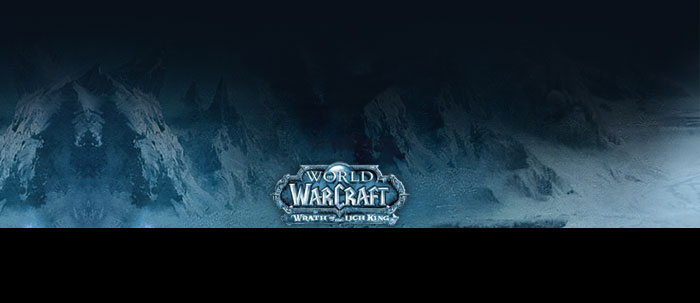
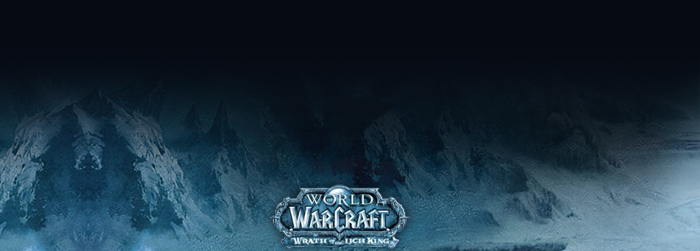
Brand New Background, News Design, Info Design, Top/LowerBG Design

diff --git a/themes/wotlk/css/misc.css b/themes/wotlk/css/misc.css
@@ -19,10 +19,96 @@
 	width: 150px;
 }
 
+
 #user_menu {
 	
 }
 
 #content {
 	min-height: 500px;
+}
+
+#news{
+	width:451px;
+	float:left;
+	margin:0px;
+	margin-top:20px;
+	padding:0px 0px;
+}
+#news_top{
+	height:26px;
+	margin:0px;
+	padding:0px;
+	background:url(../images/index_01.png) no-repeat;
+}
+#news_bottom{
+	height:26px;
+	margin:0px;
+	padding:0px;
+	background:url(../images/index_05.png) no-repeat bottom center;
+}
+
+#news_bg_bottom{
+	margin:0px;
+	padding:0px;
+	background:url(../images/index_04.png) no-repeat bottom center;
+}
+
+#news_container{
+	margin:0px;
+	padding:0px;
+	background:url(../images/index_03.png) repeat-y;
+}
+
+#news_content{
+	margin:0px;
+	padding:0px;
+	background:url(../images/index_02.png) no-repeat top center;
+}
+.news_item{
+	margin:0px;
+	padding:10px 30px;
+	padding-bottom:20px;
+	
+	color:#95cbc5;
+	font-family:"Times New Roman", Times, serif;
+	font-size:12px;
+	text-align:justify;
+	background:url(../images/trennlinieNews.jpg) no-repeat bottom center;
+}
+#news_content .firstitem{
+	padding-top:0px;
+}
+#news_content .lastitem{
+	background:none;
+	padding-bottom:0px;
+}
+
+#news_content #letter{
+	float:left;
+	margin-right:5px;
+	margin-top: -7px;
+	color:#fdbb18;
+	font-size:50px;
+}
+#news_content #title{
+	color:#FFF;
+	font-size:18px;
+	font-weight:600;
+}
+#news_content #date{
+	margin-top:3px;
+	float:right;
+	font-size:10px;
+	color:#FFF;
+}
+
+#rightbox{
+	margin:0px;
+	margin-top:23px;
+	padding:0px;
+	height:329px;
+	width:218px;
+	float:right;
+	background:url(../images/RightBox.png) no-repeat;
 }

diff --git a/themes/wotlk/css/layout.css b/themes/wotlk/css/layout.css
@@ -1,7 +1,7 @@
 html, body{
   margin:0px;
   padding:0px;
-  //background: url('../images/bg_bottom.jpg') no-repeat bottom center;
+  background: url('../images/bg.jpg') no-repeat bottom center;
   background-color:#060A13;
 }
 
@@ -19,7 +19,7 @@ html, body{
   margin-right: auto;
   border-left: 1px solid #777;
   border-right: 1px solid #777;
-  background-color:#081019;
+  background-color:#060a13;
 }
 
 #menutable{
@@ -103,32 +103,6 @@ html, body{
   height: 207px;
   
 }
-/* Start of Header */
-	
-	
-	#news{
-		position:absolute;
-		top:50px;
-		left:-224px;
-		
-		margin:0px;
-		
-		padding-top:50px;
-		padding-left:20px;
-		padding-right: 10px;
-		padding-bottom: 20px;
-		
-		width:183px;
-		height:213px;
-		
-		font-size:9pt;
-		text-align:justify;
-		font-family:Verdana, Geneva, sans-serif;
-		
-		color:#CCC;
-		background:url(../images/news_bg.jpg);
-	}
-/* End of Header */
 
 #container_bg{
   position:relative;
@@ -137,12 +111,12 @@ html, body{
   color:white;
   text-align:left;
   background:url('../images/content_bg.jpg') no-repeat bottom center;
-  background-color:#081019;
+  background-color:#060a13;
 }
 #container{
   position:relative;
   margin:0px;
-  padding:20px 20px 0px 20px;
+  padding:20px 10px 0px 10px;
   color:white;
   text-align:left;
   background:url('../images/Body_03.jpg') no-repeat top center;
